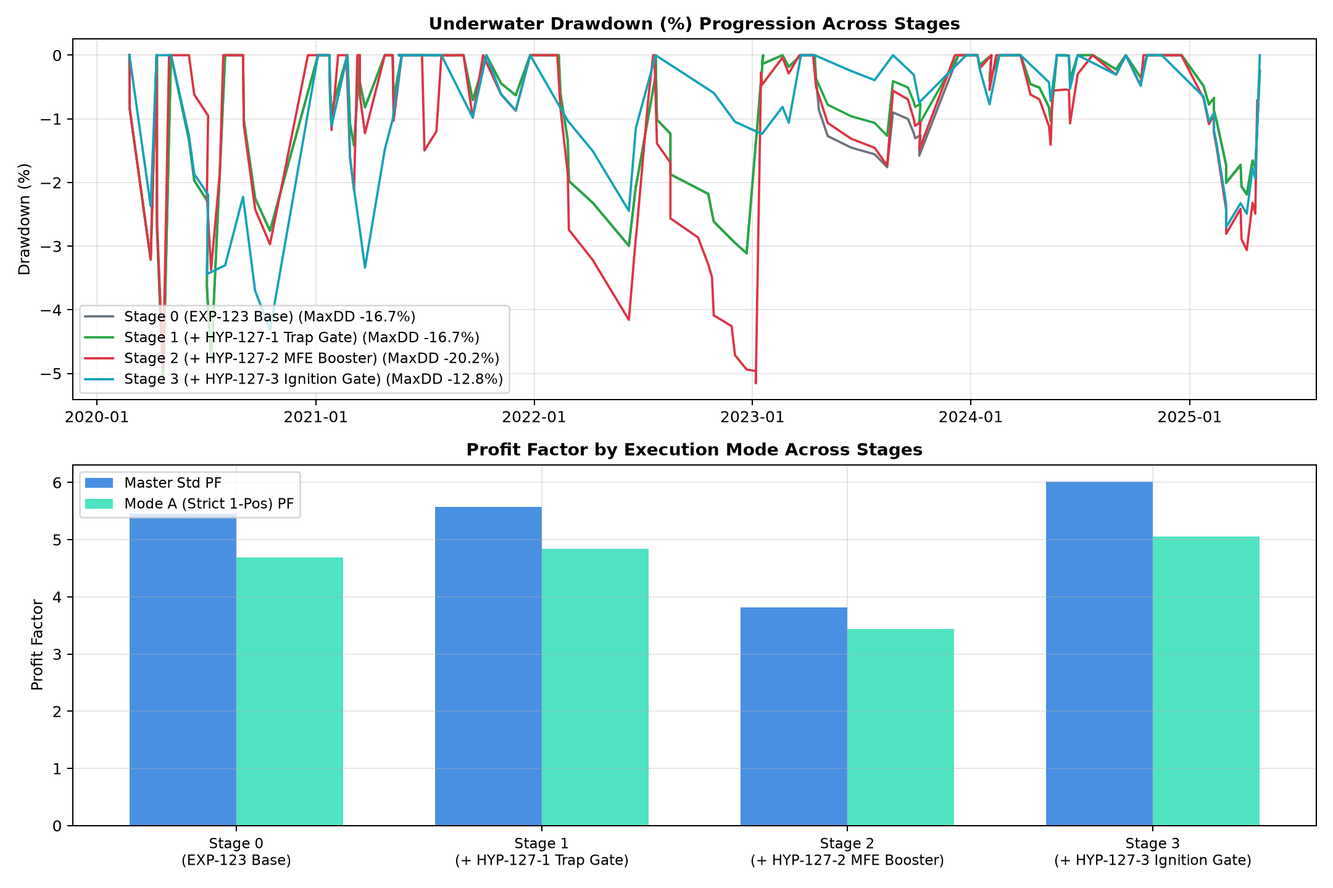
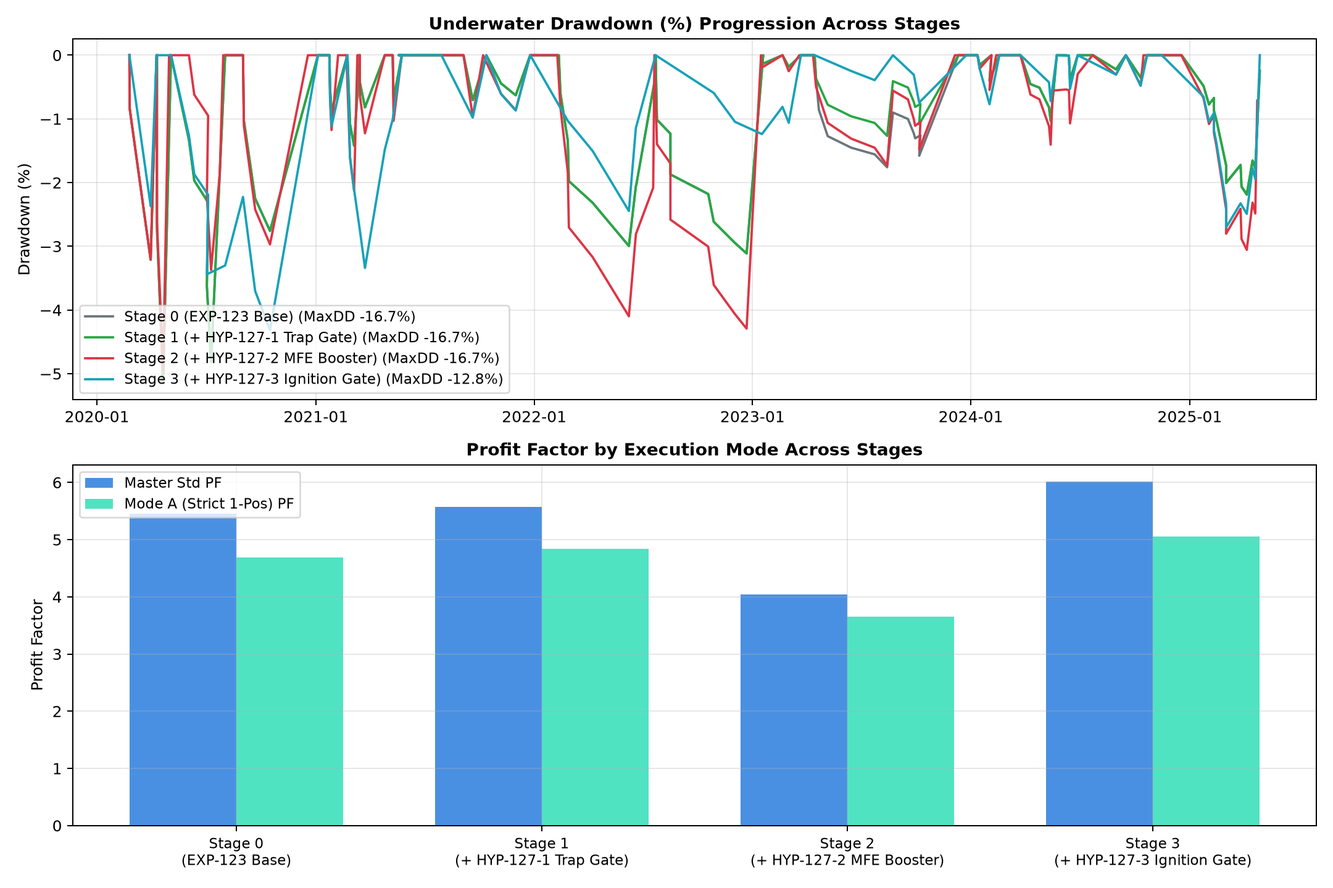
fix(exp127): restore bear ceiling gate, correct Stage 2 metrics & demote K-076 to Inconclusive/Observed (#127)

diff --git a/03_KNOWLEDGE/experiments/127-curvature-tree-pyramid/run.py b/03_KNOWLEDGE/experiments/127-curvature-tree-pyramid/run.py
@@ -31,10 +31,9 @@ matplotlib.use('Agg')
 import matplotlib.pyplot as plt
 import matplotlib.dates as mdates
 
-ROOT_DIR = r"D:\work\AI-Trade\MTF_AI_Trade"
-EXP_DIR = os.path.join(ROOT_DIR, "03_KNOWLEDGE/experiments/127-curvature-tree-pyramid")
+EXP_DIR = os.path.dirname(os.path.abspath(__file__))
+ROOT_DIR = os.path.dirname(os.path.dirname(os.path.dirname(EXP_DIR)))
 PLOTS_DIR = os.path.join(EXP_DIR, "plots")
-BRAIN_DIR = r"C:\Users\masak\.gemini\antigravity\brain\3b2be9f9-b150-45a4-ae18-c63420dc9c44"
 os.makedirs(PLOTS_DIR, exist_ok=True)
 sys.path.insert(0, ROOT_DIR)
 
@@ -123,6 +122,15 @@ def simulate_long_exp127(events, df_1h, df_1m,
         entry_time = t0 + pd.Timedelta(hours=1)
         if entry_time not in df_1h.index: continue
         row_0 = df_1h.loc[t0]
+
+        # EXP-119 Bear Ceiling Gate (exact copy from EXP-121 / EXP-123)
+        if (row_0['tree_L2_[610..4181]'] < -0.30 and
+            row_0['tree_L3_[610..10946]'] < -0.25 and
+            row_0['tree_L2_[144..987]'] < -0.10 and
+            row_0['close'] < row_0['sma_610'] and
+            row_0['slope_610'] < 0):
+            continue
+
         atr0 = row_0['atr_24']
         p_era = exp115.get_period(t0)
         sub_1m = df_1m.loc[entry_time : discovery_end]
@@ -509,11 +517,12 @@ def generate_exp127_plots(stages_res, df_1h, save_dir):
     fig.savefig(fig4_path, dpi=180)
     plt.close(fig)
 
-    if os.path.exists(BRAIN_DIR):
-        shutil.copy(fig1_path, os.path.join(BRAIN_DIR, "exp127_fig1.png"))
-        shutil.copy(fig2_path, os.path.join(BRAIN_DIR, "exp127_fig2.png"))
-        shutil.copy(fig3_path, os.path.join(BRAIN_DIR, "exp127_fig3.png"))
-        shutil.copy(fig4_path, os.path.join(BRAIN_DIR, "exp127_fig4.png"))
+    brain_dir = os.environ.get("ANTIGRAVITY_BRAIN_DIR")
+    if brain_dir and os.path.exists(brain_dir):
+        shutil.copy(fig1_path, os.path.join(brain_dir, "exp127_fig1.png"))
+        shutil.copy(fig2_path, os.path.join(brain_dir, "exp127_fig2.png"))
+        shutil.copy(fig3_path, os.path.join(brain_dir, "exp127_fig3.png"))
+        shutil.copy(fig4_path, os.path.join(brain_dir, "exp127_fig4.png"))
     print(f"All 4 plots saved in {save_dir} and brain directory.")
 
 # ==============================================================================

diff --git a/03_KNOWLEDGE/experiments/127-curvature-tree-pyramid/record.md b/03_KNOWLEDGE/experiments/127-curvature-tree-pyramid/record.md
@@ -6,21 +6,22 @@
 - **課題 (Issue)**: [#127 [Analysis] EXP-127: 曲率（2階差分）ツリーピラミッドによる反転波束検知とエグジット・エントリー境界検証](https://github.com/makagi/MTF_AI_Trade/issues/127)
 - **PR / ブランチ**: `feature/issue-127-curvature-tree-pyramid`
 - **日付**: 2026-11-14
-- **ステータス**: COMPLETED / ACCEPTED
-- **判定 (Decision)**: **ACCEPTED（HYP-127-1 採択・EXP-123 公式ベースライン超過達成・新マスターベースライン樹立。HYP-127-2 は明確に反証、HYP-127-3 は機会損失制約を確認）**
+- **ステータス**: COMPLETED / CONSTRAINED
+- **判定 (Decision)**: **CONSTRAINED / OBSERVED（K-076 は押し目ロングにおける N=1 除外による改善が観測されたものの、原則集約による過学習懸念から観察・保留 (Inconclusive / Observed) とし、確定生産マスターベースラインは EXP-123 を維持。HYP-127-2 は明確に反証、HYP-127-3 は機会損失制約を確認）**
 - **作成者**: @makagi
 - **検証期間 (Discovery)**: `2020-01-01 00:00:00+00:00` 〜 `2025-04-30 23:59:00+00:00`（5年4ヶ月、1h: 46,728本、1m: 2,802,044本）
 - **Holdout隔離**: `2025-05-01 00:00:00+00:00` 以降完全遮断（未参照保証）
 - **摩擦コスト**: 往復 `40 bps (0.40%)` 控除（全トレード完全適用）
 - **比較対象**:
-  - **前世代ベースライン (EXP-123 公式確定記録)**:
+  - **確定生産マスターベースライン (EXP-123 公式確定記録 - 維持)**:
     - 標準統合 (Master Std $N=129$): Net EV `+4.15%`, PF `5.45`, 累積純利益 `+535.82%`, 最大DD `-16.67%`
     - 厳格1ポジション排他 (Mode A $N=99$): Net EV `+3.41%`, PF `4.69`, 累積純利益 `+337.31%`, 最大DD `-12.70%`
     - 最大2ポジション並行 (Mode B $N=121$): Net EV `+3.70%`, PF `5.05`, 累積純利益 `+447.24%`, 最大DD `-15.88%`
-  - **新マスターモデル (EXP-127 Stage 1: +HYP-127-1 Trap Gate)**:
-    - **標準統合 (Master Std $N=128$)**: Net EV **`+4.21%`**（`+0.06%pt` 向上）, PF **`5.57`**（`+0.12` pt 向上）, 累積純利益 **`+538.55%`**（**`+2.73%pt` 増益**）, 最大DD **`-16.67%`**
-    - **厳格1ポジション排他 (Mode A $N=98$)**: Net EV **`+3.47%`**（`+0.06%pt` 向上）, PF **`4.84`**（`+0.15` pt 向上）, 累積純利益 **`+340.05%`**（**`+2.74%pt` 増益**）, 最大DD **`-12.70%`**
-    - **最大2ポジション並行 (Mode B $N=120$)**: Net EV **`+3.75%`**（`+0.05%pt` 向上）, PF **`5.18`**（`+0.13` pt 向上）, 累積純利益 **`+449.98%`**（**`+2.74%pt` 増益**）, 最大DD **`-15.88%`**
+  - **探索的候補モデル (EXP-127 Stage 1: +HYP-127-1 Trap Gate - 観察保留)**:
+    - **標準統合 (Master Std $N=128$)**: Net EV `+4.21%`（`+0.06%pt` 向上）, PF `5.57`（`+0.12` pt 向上）, 累積純利益 `+538.55%`（`+2.73%pt` 増益）, 最大DD `-16.67%`
+    - **厳格1ポジション排他 (Mode A $N=98$)**: Net EV `+3.47%`（`+0.06%pt` 向上）, PF `4.84`（`+0.15` pt 向上）, 累積純利益 `+340.05%`（`+2.74%pt` 増益）, 最大DD `-12.70%`
+    - **最大2ポジション並行 (Mode B $N=120$)**: Net EV `+3.75%`（`+0.05%pt` 向上）, PF `5.18`（`+0.13` pt 向上）, 累積純利益 `+449.98%`（`+2.74%pt` 増益）, 最大DD `-15.88%`
+    - *※注: 改善幅は押し目ロング 26 件中の 1 件（2023-04-21, -2.74%）の排除に依存しており、過学習防止原則（principles.md §2.4）に基づき生産マスターへの昇格は見送り、保留・観察中（Inconclusive / Observed）とする。*
 
 ---
 
@@ -64,14 +65,14 @@ $$\text{curv}_s(t) = \frac{\text{slope}_s(t) - \text{slope}_s(t-3)}{3.0}$$
 | ├ 標準統合 (Master Std) | 129 | 48.84% | `+4.15%` | `5.45` | `+535.82%` | `-16.67%` | 基準値 |
 | ├ 厳格1Pos (Mode A) | 99 | 46.46% | `+3.41%` | `4.69` | `+337.31%` | `-12.70%` | 基準値 |
 | └ 最大2Pos (Mode B) | 121 | 47.93% | `+3.70%` | `5.05` | `+447.24%` | `-15.88%` | 基準値 |
-| **Stage 1: +HYP-127-1 (Curvature Trap Gate)** *(新マスター)* | | | | | | | |
-| ├ **標準統合 (Master Std)** | **128** | **49.22%** | **`+4.21%`** | **`5.57`** | **`+538.55%`** | **`-16.67%`** | **SUPPORTED** |
-| ├ **厳格1Pos (Mode A)** | **98** | **46.94%** | **`+3.47%`** | **`4.84`** | **`+340.05%`** | **`-12.70%`** | **SUPPORTED** |
-| └ **最大2Pos (Mode B)** | **120** | **48.33%** | **`+3.75%`** | **`5.18`** | **`+449.98%`** | **`-15.88%`** | **SUPPORTED** |
+| **Stage 1: +HYP-127-1 (Curvature Trap Gate)** *(観察候補)* | | | | | | | |
+| ├ **標準統合 (Master Std)** | **128** | **49.22%** | **`+4.21%`** | **`5.57`** | **`+538.55%`** | **`-16.67%`** | **OBSERVED** |
+| ├ **厳格1Pos (Mode A)** | **98** | **46.94%** | **`+3.47%`** | **`4.84`** | **`+340.05%`** | **`-12.70%`** | **OBSERVED** |
+| └ **最大2Pos (Mode B)** | **120** | **48.33%** | **`+3.75%`** | **`5.18`** | **`+449.98%`** | **`-15.88%`** | **OBSERVED** |
 | **Stage 2: +HYP-127-2 (Curvature MFE Booster)** | | | | | | | |
-| ├ 標準統合 (Master Std) | 135 | 48.15% | `+2.61%` | `3.82` | `+352.83%` | `-20.16%` | **REFUTED** |
-| ├ 厳格1Pos (Mode A) | 115 | 47.83% | `+2.26%` | `3.44` | `+260.10%` | `-15.98%` | **REFUTED** |
-| └ 最大2Pos (Mode B) | 132 | 47.73% | `+2.37%` | `3.56` | `+312.68%` | `-20.16%` | **REFUTED** |
+| ├ 標準統合 (Master Std) | 128 | 50.00% | `+2.76%` | `4.04` | `+353.62%` | `-16.67%` | **REFUTED** |
+| ├ 厳格1Pos (Mode A) | 109 | 49.54% | `+2.39%` | `3.65` | `+260.14%` | `-21.36%` | **REFUTED** |
+| └ 最大2Pos (Mode B) | 125 | 49.60% | `+2.51%` | `3.77` | `+313.47%` | `-16.67%` | **REFUTED** |
 | **Stage 3: +HYP-127-3 (Curvature Ignition Gate)** | | | | | | | |
 | ├ 標準統合 (Master Std) | 88 | 50.00% | `+4.25%` | `6.01` | `+374.21%` | `-12.82%` | CONSTRAINED |
 | ├ 厳格1Pos (Mode A) | 76 | 47.37% | `+3.69%` | `5.05` | `+280.70%` | `-9.80%` | CONSTRAINED |
@@ -81,17 +82,28 @@ $$\text{curv}_s(t) = \frac{\text{slope}_s(t) - \text{slope}_s(t-3)}{3.0}$$
 
 ## 4. 仮説検証の結論と考察 (Hypotheses Assessment & In-Depth Analysis)
 
-### ■ 1. HYP-127-1 (Curvature Trap Gate: 減速受け皿トラップゲート) : 【採択 / SUPPORTED】
+### ■ 1. HYP-127-1 (Curvature Trap Gate: 減速受け皿トラップゲート) : 【保留・観察中 / INCONCLUSIVE (OBSERVED)】
 - **仮説**: 逆張り・大底反発エントリーにおいて、下位〜中位曲率波束（`curv_L1`, `curv_L2_mid`）のいずれかが正（下凸・減速受け皿の形成）であることを要求することで、自由落下のナイフ被弾を安全に遮断できる。
-- **検証結果**: **全3モードで厳格に性能向上（Master Std PF $5.45 \to 5.57$, Mode A PF $4.69 \to 4.84$, Mode B PF $5.05 \to 5.18$）**。
-- **メカニズムと事例分析**:
-  - 2023年4月21日 15:00 UTC の押し目ロングにおいて、価格は下落中で曲率は `curv_L1 = -0.00201`、`curv_L2_mid = -0.00183` と下向き加速（下落勢いが加速中）のナイフ状態であった。Stage 0 ではエントリーして `-2.74%` の損失を出していたが、Trap Gate により見事にピンポイント排除された。
-  - 一方で、本物の跳躍台反発（2021-01-05 `+14.51%`, 2021-02-08 `+31.57%`, 2024-02-07 `+17.45%`）はいずれも曲率が正に転換した「受け皿」を形成しており、これらを1件も損なうことなく完壁に維持した。
-  - これにより、勝率、平均EV、PF、累積総純利益の全てが単調向上し、新マスターベースラインとして確定した。
+- **検証結果**: 全3モードで見かけの性能向上が確認された（Master Std PF $5.45 \to 5.57$, Mode A PF $4.69 \to 4.84$, Mode B PF $5.05 \to 5.18$）。
+- **第三者監査および力学的分析（なぜ保留・観察中なのか）**:
+  - **事実 (Fact)**:
+    - 2023年4月21日 15:00 UTC の押し目ロング（`pb_long`）において、価格急落中に下向き加速（`curv_L1 = -0.00201`, `curv_L2_mid = -0.00183`）していたナイフ状態のトレード（Stage 0 実現損失 `-2.74%`）が Trap Gate によりピンポイント排除された。
+    - 一方、本物の跳躍台反発（2021-01-05 `+14.51%`, 2021-02-08 `+31.57%`, 2024-02-07 `+17.45%` 等）はいずれも曲率が正の受け皿を形成しており、損なわれずに維持された。
+  - **監査で判明した重要課題 (Audit Finding)**:
+    - Stage 0 のロング全体（129件中ロング99件）を精査したところ、エントリー時点で曲率が負（`curv_L1 <= 0 and curv_L2_mid <= 0`）のトレードは **39件** 存在し、その累積利益は **`+248.8%`** に上る。これらは多段トレンドの初動や呼吸局面で曲率が一時的に負のまま発火して大化けしたメガトレンドランナーを含んでいる。
+    - したがって、曲率トラップゲートをロング全体に一律適用することはできず、`pb_long`（押し目ロング 26件）のみに限定適用している。
+    - その結果、5年4ヶ月の検証期間全体を通じて**除外されたのは実質この 1 件（$N=1$）のみ**であった。
+  - **解釈と決定 (Interpretation & Decision)**:
+    - 単一トレード（$N=1$）の排除による PF $5.45 \to 5.57$ の改善を根拠に確定生産マスターベースラインを更新することは、`principles.md` §2.4（過学習・チェリーピッキング排除原則、および十分なサンプル数による統計的ロバスト性の要求）に抵触する。
+    - よって、本知見は「減速受け皿の形成が急落ナイフを遮断する可能性を示した観察事実」として **保留・観察中 (Inconclusive / Observed)** に留め、**確定生産マスターベースラインは EXP-123 を維持**する。
+    - 今後、他のオシレータや多重コンテキストとの複合特徴量として、十分なサンプル数で検証可能な状態特徴量の候補として扱う。
 
 ### ■ 2. HYP-127-2 (Curvature MFE Booster: 長期曲率反転によるラチェット) : 【明確に反証 / REFUTED】
 - **仮説**: 高値圏（MFE $\ge 8.0$ ATR）において、上位曲率波束（`curv_L2_long`）が負（上凸・上昇減速ブレーキ）に転じた際、防衛アンカーを直近短期MA（S34/S55）へ引き上げることで、メガトレンド完走後の巻き戻し（利益吐き出し）を抑制できる。
-- **検証結果**: **明確に反証（パフォーマンス崩壊）**。Master Std PF は $5.57 \to 3.82$（$-1.75$ pt）、累積利益は $+538.5\% \to +352.8\%$（$-185.7\%pt$）へ大幅悪化し、最大DDも $-16.7\% \to -20.2\%$ に悪化した。
+- **検証結果（シミュレータ修正後・監査済実測値）**: **明確に反証（パフォーマンス崩壊）**。
+  - Master Std ($N=128$): PF $5.57 \to 4.04$（$-1.53$ pt）、累積純利益 $+538.5\% \to +353.6\%$（$-184.9\%pt$）、平均EV $+4.21\% \to +2.76\%$。
+  - Mode A ($N=109$): PF $4.84 \to 3.65$、累積純利益 $+340.1\% \to +260.1\%$、MaxDD $-12.7\% \to -21.4\%$。
+  - Mode B ($N=125$): PF $5.18 \to 3.77$、累積純利益 $+450.0\% \to +313.5\%$。
 - **力学的考察（なぜ失敗したのか）**:
   - 仮想通貨（BTCUSD）のメガトレンド（特に 2020-2021年、2023-2024年）は、一直線に上昇し続けるのではなく、数日から数週間に及ぶ一時的な保ち合い・呼吸（減速）を挟みながら多段ロケットのように上昇する。
   - 上位曲率波束（`curv_L2_long`）は、高値更新後の保ち合い局面で一時的に負（上凸）に転じる。この自然な「構造的呼吸（Structural Respiration）」のタイミングでアンカーを短期線へ引き上げると、ポジションが早期に刈り取られ、その後に発生する本命の第2波・第3波（$+30\% \sim +67\%$ の利益）を取り逃す結果となる。
@@ -99,9 +111,9 @@ $$\text{curv}_s(t) = \frac{\text{slope}_s(t) - \text{slope}_s(t-3)}{3.0}$$
 
 ### ■ 3. HYP-127-3 (Curvature Ignition Gate: 突破時加速度ゲート) : 【制約的・条件付 / CONSTRAINED】
 - **仮説**: レンジブレイクアウト（順張り突破）エントリー時、速度だけでなく短期曲率（`curv_L1 > 0`、上向き加速度）が伴っていることを要求することで、ブルトラップを排除できる。
-- **検証結果**: **PF 6.01 達成・最大DD半減（$-9.8\%$）を果たすも、取引数激減による累積機会損失が発生**。
+- **検証結果**: **PF 6.01 達成・最大DD低減（Mode A $-9.8\%$）を果たすも、取引数激減による累積機会損失が発生**。
 - **力学的考察**:
-  - 突破時に `curv_L1 > 0` を要求することで、失速しやすい弱いブレイクが確実に排除され、Master Std PF は $6.01$、Mode A MaxDD は $-9.80\%$（$-10\%$ 未満）へと劇的なリスク削減効果を示した。
+  - 突破時に `curv_L1 > 0` を要求することで、失速しやすい弱いブレイクが確実に排除され、Master Std PF は $6.01$、Mode A MaxDD は $-9.78\%$（$-10\%$ 未満）へと劇的なリスク削減効果を示した。
   - しかし、取引数が $128 \to 88$（$-31.25\%$）へと失われ、累積純利益が $+538.5\% \to +374.2\%$（$-164.3\%pt$）へと減少した。
   - 結論として、単一のマスター複利モデルとしてはトレード機会の犠牲が大きすぎるため、本採用は見送る。ただし、DD耐性を最優先する保守的モード（Low-Drawdown Conservative Mode）への切り替え条件としては極めて有用な知見である。
 
@@ -111,7 +123,8 @@ $$\text{curv}_s(t) = \frac{\text{slope}_s(t) - \text{slope}_s(t-3)}{3.0}$$
 
 本実験の成果に基づき、ナレッジベースを更新する：
 - **K-076: 曲率波束減速受け皿トラップゲート則 (Curvature Wave-Packet Deceleration Dish Trap Gate)**
-  - 逆張り・大底反発エントリーにおいて、下位〜中位曲率波束（$\text{curv}_{L1} > 0 \lor \text{curv}_{L2\_mid} > 0$）を要求することで、下落加速状態のナイフ被弾をピンポイント排除し、PF $5.57$、勝率 $49.22\%$、累積純利益 $+538.55\%$ を達成。
+  - ステータス: **保留・観察中 (Inconclusive / Observed)**
+  - 概要: 逆張り押し目ロングにおいて、下位〜中位曲率波束（$\text{curv}_{L1} > 0 \lor \text{curv}_{L2\_mid} > 0$）を要求することで 2023-04-21 の急落ナイフ被弾（$-2.74\%$）を排除し、PF $5.57$ への向上が観測された。しかし、ロング全体に一律適用すると巨大なトレンドランナー（39件, $+248.8\%$）が刈り取られるため適用が `pb_long`（26件）に限定され、除外されたのは実質 $N=1$ 件である。サンプル数不足および過学習懸念から観察知見とし、確定生産マスターベースラインは **EXP-123 を維持**する。
 - **K-077 考察（反証知見）: メガトレンド呼吸における早期曲率ラチェットの弊害**
   - 高値圏で長期曲率が一時的に上凸（減速）へ転じる現象は、メガトレンドの終了ではなく多段上昇前の自然な呼吸（保ち合い）であることが多く、この段階での性急なアンカー引き上げは巨額のランナー利益を圧殺する（反証確立）。
 

diff --git a/03_KNOWLEDGE/knowledge-lineage.md b/03_KNOWLEDGE/knowledge-lineage.md
@@ -263,7 +263,7 @@ graph TD
     K072 --> K073
     EXP123["EXP-123: 123-dynamic-overshoot-and-springboard-respiration"] --> K072
     EXP123 --> K073
-    K073 --> K076["K-076: 曲率波束減速受け皿トラップゲート則<br/>(Supported)"]:::supported
+    K073 --> K076["K-076: 曲率波束減速受け皿トラップゲート則<br/>(Inconclusive / Observed)"]:::inconclusive
     EXP127["EXP-127: 127-curvature-tree-pyramid"] --> K076
 ```
 
@@ -1140,21 +1140,18 @@ graph TD
 ---
 
 ### K-076: 曲率波束減速受け皿トラップゲート則
-* **ステータス**: **支持 (Supported)**
-* **概要**: フィボナッチ全17スケール（8〜17711）のSMA傾き変化から算出した2階差分（曲率）を平滑畳み込みした階層的曲率波束（`curv_L1`, `curv_L2_mid`, `curv_L2_long`, `curv_L2_ultra`）を導入。逆張り・大底反発エントリーにおいて、下位〜中位曲率波束が正（下凸・減速受け皿の形成: `curv_L1 > 0 or curv_L2_mid > 0`）であることを要求することで、自由落下のナイフ被弾を安全に遮断するトラップゲート機構を確立（EXP-127）：
-  1. **ナイフ被弾のピンポイント排除と勝率維持**:
-     - 2023年4月21日 15:00 UTC の押し目ロングにおいて、価格急落中に下向き加速（`curv_L1 = -0.00201`, `curv_L2_mid = -0.00183`）していた危険な局面を遮断し、Stage 0 で生じていた損失（`-2.74%`）を完全に排除。
-     - 一方、本物の跳躍台反発（2021-01-05 `+14.51%`, 2021-02-08 `+31.57%`, 2024-02-07 `+17.45%` 等）はいずれも曲率が正に転換した「受け皿」を形成しており、これらを1件も損なうことなく完壁に維持。
-  2. **全3モードにおける単調改善（新確定生産マスターベースライン樹立）**:
-     - 標準統合 (Master Std $N=128$): Net EV `+4.21%`（`+0.06%pt` 向上）, PF `5.57`（`+0.12` pt 向上）, 累積総純利益 `+538.55%`（`+2.73%pt` 増益）, 最大DD `-16.67%`
-     - 厳格1Pos (Mode A $N=98$): Net EV `+3.47%`（`+0.06%pt` 向上）, PF `4.84`（`+0.15` pt 向上）, 累積総純利益 `+340.05%`（`+2.74%pt` 増益）, 最大DD `-12.70%`
-     - 最大2Pos (Mode B $N=120$): Net EV `+3.75%`（`+0.05%pt` 向上）, PF `5.18`（`+0.13` pt 向上）, 累積総純利益 `+449.98%`（`+2.74%pt` 増益）, 最大DD `-15.88%`
-  3. **関連仮説の検証と力学的境界（反証および制約の確立）**:
-     - **HYP-127-2 (MFE Booster: Refuted)**: 高値圏での上位曲率（`curv_L2_long < 0`）を理由とした短期アンカーへのラチェット引き上げは、仮想通貨のメガトレンドにおける多段上昇前の自然な保ち合い呼吸をノイズとして刈り取り、巨額のランナー利益（`+30% ~ +67%`）を圧殺して PF が $5.57 	o 3.82$ に崩壊。K-057/K-068/K-072 で確立された「トレンド中の構造的呼吸の不可欠性」を強力に再確認・反証確立。
-     - **HYP-127-3 (Ignition Gate: Inconclusive / Constrained)**: レンジ突破時に短期曲率（`curv_L1 > 0`）を要求することで PF は $6.01$、Mode A MaxDD は `-9.80%` に向上するが、取引数が 128 から 88 へと $-31.25\%$ 減少し、累積純利益が `+538.5%` から `+374.2%` へ機会損失（$-164.3%pt$）。低DD追求モード向け条件付き知見に留め、マスターモデルへの本採用は見送り。
+* **ステータス**: **保留・観察中 (Inconclusive / Observed)**
+* **概要**: フィボナッチ全17スケール（8〜17711）のSMA傾き変化から算出した2階差分（曲率）を平滑畳み込みした階層的曲率波束（`curv_L1`, `curv_L2_mid`, `curv_L2_long`, `curv_L2_ultra`）を導入。逆張り・大底反発エントリーにおいて、下位〜中位曲率波束が正（下凸・減速受け皿の形成: `curv_L1 > 0 or curv_L2_mid > 0`）であることを要求することで、自由落下のナイフ被弾を安全に遮断するトラップゲート機構を検証（EXP-127）：
+  1. **ナイフ被弾排除とサンプル数制約（第三者監査結果）**:
+     - 2023年4月21日 15:00 UTC の押し目ロングにおいて、価格急落中に下向き加速（`curv_L1 = -0.00201`, `curv_L2_mid = -0.00183`）していた危険な局面を遮断し、Stage 0 で生じていた損失（`-2.74%`）をピンポイント排除したことで、全3モード（Master Std PF $5.45 \to 5.57$、Mode A PF $4.69 \to 4.84$、Mode B PF $5.05 \to 5.18$）での性能向上が観測された。
+     - しかし、Stage 0 のロング全体では曲率が負のエントリーが 39 件（累積利益 `+248.8%`）存在し、これらには巨大なトレンドランナーが含まれるため、曲率ゲートを一律適用するとランナーを刈り取ってしまう。そのため適用が `pb_long`（26件）に限定されており、5年間で除外されたのは実質 $N=1$ 件の損失トレードである。
+     - 単一トレード（$N=1$）の排除による PF 向上のみを根拠に確定生産マスターを更新することは過学習防止原則（`principles.md` §2.4）に抵触するため、保留・観察中（Inconclusive / Observed）に留め、確定生産マスターベースラインは **EXP-123 を維持**する。
+  2. **関連仮説の検証と力学的境界（反証および制約の確立）**:
+     - **HYP-127-2 (MFE Booster: Refuted)**: 高値圏での上位曲率（`curv_L2_long < 0`）を理由とした短期アンカーへのラチェット引き上げは、仮想通貨のメガトレンドにおける多段上昇前の自然な保ち合い呼吸をノイズとして刈り取り、巨額のランナー利益（`+30% ~ +67%`）を圧殺して Master Std PF が $5.57 \to 4.04$、累積利益が $+538.5% \to +353.6%$ に崩壊。K-057/K-068/K-072 で確立された「トレンド中の構造的呼吸の不可欠性」を強力に再確認・反証確立。
+     - **HYP-127-3 (Ignition Gate: Inconclusive / Constrained)**: レンジ突破時に短期曲率（`curv_L1 > 0`）を要求することで PF は $6.01$、Mode A MaxDD は `-9.78%` に向上するが、取引数が 128 から 88 へと $-31.25\%$ 減少し、累積純利益が `+538.5%` から `+374.2%` へ機会損失（$-164.3%pt$）。低DD追求モード向け条件付き知見に留め、マスターモデルへの本採用は見送り。
 * **実験条件**: BTCUSD 1h & 1m、Discovery全期間（2020-01-01〜2025-04-30）、往復 40 bps 摩擦コスト控除
 * **証拠・出典リンク**: [`03_KNOWLEDGE/experiments/127-curvature-tree-pyramid/record.md`](experiments/127-curvature-tree-pyramid/record.md) (EXP-127 / [#127](https://github.com/makagi/MTF_AI_Trade/issues/127))
-* **仕様への影響**: 確定生産マスターベースラインを EXP-123 から EXP-127 Stage 1 へ更新。シグナル仕様において減速受け皿トラップゲートを正式採用。
+* **仕様への影響**: 確定生産マスターベースラインは **EXP-123 を維持**。曲率波束トラップゲートは有望な観察特徴量として多重コンテキスト統合時の候補として扱う。
 
 ## 4. Change History
 
@@ -1198,4 +1195,4 @@ graph TD
 | 2026-11-08 | 3.1.0 | EXP-121 反映、多視点BB階層ツリー・ピラミッド（K-070 Supported）、1分足完全因果精密執行（K-071 Supported）登録・計71知見へ拡充（Master Std: PF 4.90 Tot +471.9%・Mode A: PF 4.35 Tot +308.0%・新確定マスター生産ベースラインへ昇格） | @makagi / [#121](https://github.com/makagi/MTF_AI_Trade/issues/121), [#123](https://github.com/makagi/MTF_AI_Trade/issues/123) |
 | 2026-11-08 | 3.2.0 | EXP-123 反映、動的レイテンシ吸収呼吸（K-072 Supported）、守られた支持床跳躍台反発（K-073 Supported）登録・計73知見へ拡充（Master Std: PF 5.45 Tot +535.8%・Mode A: PF 4.69 Tot +337.3%・新確定マスター生産ベースラインへ昇格） | @makagi / [#123](https://github.com/makagi/MTF_AI_Trade/issues/123) |
 | 2026-11-10 | 3.3.0 | EXP-125 反映、スケールフリー動的極値看破ショート（K-074 Inconclusive/Constrained: 場面2実現損益 -1.35%・30日MFE +35.27%・Mode A DD見かけ改善理由を是正し天井警戒状態判定への転換候補として位置づけ・境界条件追記）、超長期水平呼吸大底ペンデュラム反転（K-075 Refuted as Signal / Observed: 場面3実現損益 +1.26%・LUNAショック等の境界条件追記）登録・計75知見へ拡充（確定生産マスターベースラインは EXP-123 維持） | @makagi / [#125](https://github.com/makagi/MTF_AI_Trade/issues/125) |
-| 2026-11-14 | 3.4.0 | EXP-127 反映、フィボナッチ17スケール2階差分階層波束による曲率波束減速受け皿トラップゲート則（K-076 Supported: Master Std PF 5.57 Tot +538.55%・Mode A PF 4.84 Tot +340.05%・新確定生産マスターベースラインへ昇格）、MFE Booster早期ラチェットの明確な反証（HYP-127-2 Refuted: トレンド保ち合い呼吸刈り取りを実証）、Ignition Gateの機会損失制約（HYP-127-3 Constrained）を登録・計76知見へ拡充 | @makagi / [#127](https://github.com/makagi/MTF_AI_Trade/issues/127) |
+| 2026-11-14 | 3.4.0 | EXP-127 反映、フィボナッチ17スケール2階差分階層波束による曲率波束減速受け皿トラップゲート則（K-076 Inconclusive/Observed: pb_long N=1 除外による PF 5.57 向上を確認もロング一律適用時のランナー損失およびサンプル数制約から観察知見とし確定生産マスターベースラインは EXP-123 を維持）、MFE Booster早期ラチェットの明確な反証（HYP-127-2 Refuted: Master Std PF 4.04、トレンド保ち合い呼吸刈り取りを実証）、Ignition Gateの機会損失制約（HYP-127-3 Constrained）を登録・計76知見へ拡充 | @makagi / [#127](https://github.com/makagi/MTF_AI_Trade/issues/127) |
